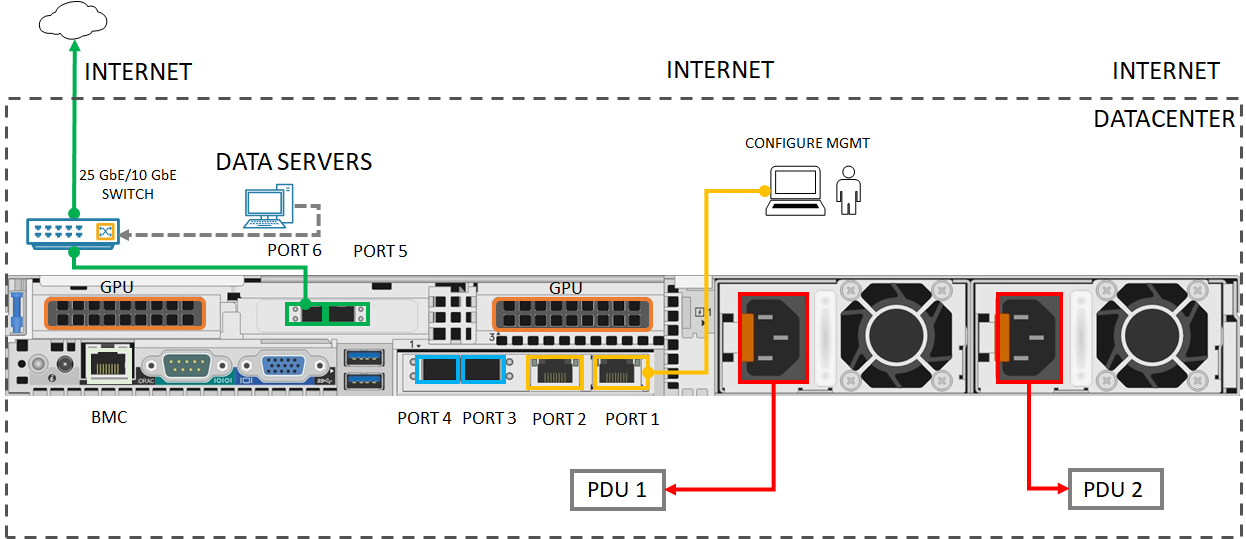
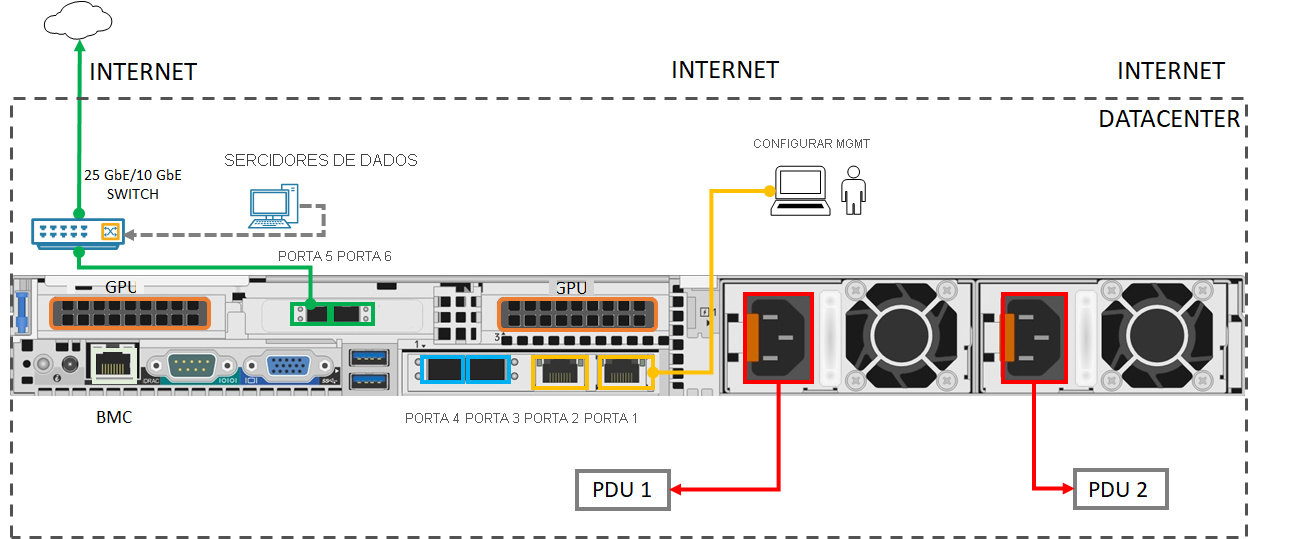
commit translated contents

diff --git a/articles/communication-services/concepts/notifications.md b/articles/communication-services/concepts/notifications.md
@@ -9,19 +9,19 @@ ms.author: mikben
 ms.date: 03/10/2021
 ms.topic: overview
 ms.service: azure-communication-services
-ms.openlocfilehash: 21c247c2fb9e1532c4580eea894c97e2bff84f92
-ms.sourcegitcommit: 867cb1b7a1f3a1f0b427282c648d411d0ca4f81f
+ms.openlocfilehash: 9bf3067737ee1f4e15deaf31677513e5ac99cbd1
+ms.sourcegitcommit: bed20f85722deec33050e0d8881e465f94c79ac2
 ms.translationtype: HT
 ms.contentlocale: pt-BR
-ms.lasthandoff: 03/19/2021
-ms.locfileid: "104657035"
+ms.lasthandoff: 03/25/2021
+ms.locfileid: "105108121"
 ---
 # <a name="communication-services-notifications"></a>Notificações de Serviços de Comunicação
 
 [!INCLUDE [Public Preview Notice](../includes/public-preview-include.md)]
 
 
-As bibliotecas de cliente de chat e chamada dos Serviços de Comunicação do Azure criam um canal de mensagens em tempo real que permite enviar mensagens de sinalização por push a clientes conectados de maneira eficiente e confiável. Com isso, você pode criar funcionalidades de comunicação avançadas e em tempo real em seus aplicativos sem implementar uma lógica de sondagem HTTP complicada. No entanto, em aplicativos móveis, esse canal de sinalização permanece conectado somente quando o aplicativo está ativo em primeiro plano. Se desejar que os usuários recebam chamadas de entrada ou mensagens de chat com o aplicativo em segundo plano, você deverá usar notificações por push.
+Os SDKs de chat e chamada dos Serviços de Comunicação do Azure criam um canal de mensagens em tempo real que permite a sinalização de mensagens para serem enviadas por push de maneira eficiente e confiável a clientes conectados. Com isso, você pode criar funcionalidades de comunicação avançadas e em tempo real em seus aplicativos sem implementar uma lógica de sondagem HTTP complicada. No entanto, em aplicativos móveis, esse canal de sinalização permanece conectado somente quando o aplicativo está ativo em primeiro plano. Se desejar que os usuários recebam chamadas de entrada ou mensagens de chat com o aplicativo em segundo plano, você deverá usar notificações por push.
 
 As notificações por push permitem que você envie informações do aplicativo para os dispositivos móveis dos usuários. Você pode usar notificações por push para mostrar uma caixa de diálogo, tocar um som ou exibir a interface do usuário de chamada de entrada. Os Serviços de Comunicação do Azure fornecem integrações com a [Grade de Eventos do Azure](../../event-grid/overview.md) e os [Hubs de Notificação do Azure](../../notification-hubs/notification-hubs-push-notification-overview.md), que permitem adicionar notificações por push aos aplicativos.
 

diff --git a/articles/communication-services/quickstarts/voice-video-calling/includes/teams-interop-android.md b/articles/communication-services/quickstarts/voice-video-calling/includes/teams-interop-android.md
@@ -1,19 +1,19 @@
 ---
 title: Início Rápido – Participar de uma reunião no Teams usando um aplicativo Android
-description: Neste tutorial, você aprende a participar de uma reunião no Teams usando a biblioteca de clientes de Chamada dos Serviços de Comunicação do Azure para Android
+description: Neste tutorial, você aprende a participar de uma reunião no Teams usando o SDK de Chamada dos Serviços de Comunicação do Azure para Android
 author: chpalm
 ms.author: mikben
 ms.date: 03/10/2021
 ms.topic: quickstart
 ms.service: azure-communication-services
-ms.openlocfilehash: 82e64af5cec8641abacf5afa323fc38382a124c4
-ms.sourcegitcommit: 772eb9c6684dd4864e0ba507945a83e48b8c16f0
+ms.openlocfilehash: e5361b92c2080c724b872be2ad27bc5bd4554e8d
+ms.sourcegitcommit: bed20f85722deec33050e0d8881e465f94c79ac2
 ms.translationtype: HT
 ms.contentlocale: pt-BR
-ms.lasthandoff: 03/20/2021
-ms.locfileid: "103487967"
+ms.lasthandoff: 03/25/2021
+ms.locfileid: "105108157"
 ---
-Neste início rápido, você aprenderá a participar de uma reunião no Teams usando a biblioteca de clientes de Chamada dos Serviços de Comunicação do Azure para Android.
+Neste guia de início rápido, você aprenderá a participar de uma reunião no Teams usando o SDK de Chamada dos Serviços de Comunicação do Azure para Android.
 
 ## <a name="prerequisites"></a>Pré-requisitos
 
@@ -254,7 +254,7 @@ public class MainActivity extends AppCompatActivity {
 ## <a name="get-the-teams-meeting-link"></a>Obter o link de reunião do Teams
 
 O link de reunião do Teams pode ser recuperado usando APIs do Graph. Isso é detalhado na [documentação do Graph](/graph/api/onlinemeeting-createorget?tabs=http&view=graph-rest-beta).
-A biblioteca de clientes de Chamada dos Serviços de Comunicação aceita um link de reunião completo do Teams. Esse link é retornado como parte do recurso `onlineMeeting`, acessível sob a [propriedade `joinWebUrl`](/graph/api/resources/onlinemeeting?view=graph-rest-beta). Você também pode obter as informações da reunião necessárias na URL **Participar da Reunião** indicada no convite da própria reunião do Teams.
+O SDK de Chamada de Serviços de Comunicação aceita um link de reunião completo do Teams. Esse link é retornado como parte do recurso `onlineMeeting`, acessível sob a [propriedade `joinWebUrl`](/graph/api/resources/onlinemeeting?view=graph-rest-beta). Você também pode obter as informações da reunião necessárias na URL **Participar da Reunião** indicada no convite da própria reunião do Teams.
 
 ## <a name="launch-the-app-and-join-teams-meeting"></a>Iniciar o aplicativo e participar da reunião do Teams
 

diff --git a/articles/communication-services/quickstarts/voice-video-calling/includes/teams-interop-ios.md b/articles/communication-services/quickstarts/voice-video-calling/includes/teams-interop-ios.md
@@ -1,19 +1,19 @@
 ---
 title: Início Rápido – Participar de uma reunião no Teams usando um aplicativo iOS
-description: Neste tutorial, você aprende a participar de uma reunião no Teams usando a biblioteca de clientes de Chamada dos Serviços de Comunicação do Azure para iOS
+description: Neste tutorial, você aprende a participar de uma reunião no Teams usando o SDK de Chamada dos Serviços de Comunicação do Azure para iOS
 author: chpalm
 ms.author: mikben
 ms.date: 03/10/2021
 ms.topic: quickstart
 ms.service: azure-communication-services
-ms.openlocfilehash: 68f1abb5335386634874d9696738a8e552ebbe9c
-ms.sourcegitcommit: 772eb9c6684dd4864e0ba507945a83e48b8c16f0
+ms.openlocfilehash: 8ff85dc5571f549027e208409db3f4e80c68b205
+ms.sourcegitcommit: bed20f85722deec33050e0d8881e465f94c79ac2
 ms.translationtype: HT
 ms.contentlocale: pt-BR
-ms.lasthandoff: 03/20/2021
-ms.locfileid: "103487965"
+ms.lasthandoff: 03/25/2021
+ms.locfileid: "105108156"
 ---
-Neste início rápido, você aprenderá a participar de uma reunião no Teams usando a biblioteca de clientes de Chamada dos Serviços de Comunicação do Azure para iOS.
+Neste guia de início rápido, você aprenderá a participar de uma reunião no Teams usando o SDK de Chamada dos Serviços de Comunicação do Azure para iOS.
 
 ## <a name="prerequisites"></a>Pré-requisitos
 
@@ -178,7 +178,7 @@ struct ContentView_Previews: PreviewProvider {
 ## <a name="get-the-teams-meeting-link"></a>Obter o link de reunião do Teams
 
 O link de reunião do Teams pode ser recuperado usando APIs do Graph. Isso é detalhado na [documentação do Graph](/graph/api/onlinemeeting-createorget?tabs=http&view=graph-rest-beta).
-A biblioteca de clientes de Chamada dos Serviços de Comunicação aceita um link de reunião completo do Teams. Esse link é retornado como parte do recurso `onlineMeeting`, acessível sob a [propriedade `joinWebUrl`](/graph/api/resources/onlinemeeting?view=graph-rest-beta). Você também pode obter as informações da reunião necessárias na URL **Participar da Reunião** indicada no convite da própria reunião do Teams.
+O SDK de Chamada de Serviços de Comunicação aceita um link de reunião completo do Teams. Esse link é retornado como parte do recurso `onlineMeeting`, acessível sob a [propriedade `joinWebUrl`](/graph/api/resources/onlinemeeting?view=graph-rest-beta). Você também pode obter as informações da reunião necessárias na URL **Participar da Reunião** indicada no convite da própria reunião do Teams.
 
 ## <a name="launch-the-app-and-join-teams-meeting"></a>Iniciar o aplicativo e participar da reunião do Teams
 

diff --git a/articles/communication-services/quickstarts/voice-video-calling/get-started-teams-interop.md b/articles/communication-services/quickstarts/voice-video-calling/get-started-teams-interop.md
@@ -8,19 +8,19 @@ ms.date: 03/10/2021
 ms.topic: quickstart
 ms.service: azure-communication-services
 zone_pivot_groups: acs-plat-web-ios-android
-ms.openlocfilehash: a9ef74c04c1f709348ae1d6dd97558ee6bedccf3
-ms.sourcegitcommit: 867cb1b7a1f3a1f0b427282c648d411d0ca4f81f
+ms.openlocfilehash: 39c35bc90986126d099e68023e15b97c58d0ac26
+ms.sourcegitcommit: bed20f85722deec33050e0d8881e465f94c79ac2
 ms.translationtype: HT
 ms.contentlocale: pt-BR
-ms.lasthandoff: 03/19/2021
-ms.locfileid: "104654961"
+ms.lasthandoff: 03/25/2021
+ms.locfileid: "105108155"
 ---
 # <a name="quickstart-join-your-calling-app-to-a-teams-meeting"></a>Início Rápido: Ingressar seu aplicativo de chamada em uma reunião do Teams
 
 > [!IMPORTANT]
 > Para habilitar/desabilitar a [interoperabilidade de locatários do Teams](../../concepts/teams-interop.md), preencha [este formulário](https://forms.office.com/Pages/ResponsePage.aspx?id=v4j5cvGGr0GRqy180BHbR21ouQM6BHtHiripswZoZsdURDQ5SUNQTElKR0VZU0VUU1hMOTBBMVhESS4u).
 
-Comece a usar os Serviços de Comunicação do Azure conectando sua solução de chamada ao Microsoft Teams usando a biblioteca de clientes JavaScript.
+Comece a usar os Serviços de Comunicação do Azure conectando sua solução de chamada ao Microsoft Teams usando o SDK de JavaScript.
 
 ::: zone pivot="platform-web"
 [!INCLUDE [Calling with JavaScript](./includes/teams-interop-javascript.md)]
@@ -43,5 +43,5 @@ Se quiser limpar e remover uma assinatura dos Serviços de Comunicação, exclua
 Para obter mais informações, consulte os seguintes artigos:
 
 - Confira nosso [exemplo de destaque da chamada](../../samples/calling-hero-sample.md)
-- Saiba mais sobre as [funcionalidades da biblioteca de clientes de chamada](./calling-client-samples.md)
+- Conheça os recursos do [SDK de Chamada](./calling-client-samples.md)
 - Saiba mais sobre [como a chamada funciona](../../concepts/voice-video-calling/about-call-types.md)

diff --git a/articles/communication-services/samples/includes/web-calling-hero.md b/articles/communication-services/samples/includes/web-calling-hero.md
@@ -10,16 +10,16 @@ ms.date: 03/10/2021
 ms.topic: include
 ms.custom: include file
 ms.author: mikben
-ms.openlocfilehash: f3da6fd75ac485a3e22a428934928795f1feae28
-ms.sourcegitcommit: 772eb9c6684dd4864e0ba507945a83e48b8c16f0
+ms.openlocfilehash: 07aa1cb361f5f1853dbf93e5f4e064b1ed14f1de
+ms.sourcegitcommit: bed20f85722deec33050e0d8881e465f94c79ac2
 ms.translationtype: HT
 ms.contentlocale: pt-BR
-ms.lasthandoff: 03/20/2021
-ms.locfileid: "103487899"
+ms.lasthandoff: 03/25/2021
+ms.locfileid: "105152764"
 ---
 [!INCLUDE [Public Preview Notice](../../includes/public-preview-include.md)]
 
-O **Exemplo de Destaque de Chamadas em Grupo** dos Serviços de Comunicação do Azure demonstra como a biblioteca de clientes Web de Chamadas dos Serviços de Comunicação pode ser usada para criar uma experiência de chamada em grupo.
+O **Exemplo de Destaque de Chamadas em Grupo** dos Serviços de Comunicação do Azure demonstra como o SDK da Web de Chamadas dos Serviços de Comunicação pode ser usado para criar uma experiência de chamada em grupo.
 
 Neste guia de início rápido de Exemplo, aprenderemos como o exemplo funciona antes de o executarmos no computador local. Em seguida, implantaremos o exemplo no Azure usando seus próprios recursos de Serviços de Comunicação do Azure.
 
@@ -96,7 +96,7 @@ Se quiser limpar e remover uma assinatura dos Serviços de Comunicação, exclua
 
 Para obter mais informações, consulte os seguintes artigos:
 
-- Familiarize-se com [usar a biblioteca de clientes de chamada](../../quickstarts/voice-video-calling/calling-client-samples.md)
+- Familiarize-se com o [uso do SDK de Chamada](../../quickstarts/voice-video-calling/calling-client-samples.md)
 - Saiba mais sobre [como a chamada funciona](../../concepts/voice-video-calling/about-call-types.md)
 
 ### <a name="additional-reading"></a>Leituras adicionais

diff --git a/articles/communication-services/quickstarts/voice-video-calling/includes/teams-interop-javascript.md b/articles/communication-services/quickstarts/voice-video-calling/includes/teams-interop-javascript.md
@@ -1,19 +1,19 @@
 ---
 title: Início Rápido – Participar de uma reunião no Teams usando um aplicativo Web
-description: Neste tutorial, você aprende a participar de uma reunião no Teams usando a biblioteca de clientes de Chamada dos Serviços de Comunicação do Azure para JavaScript
+description: Neste tutorial, você aprende a participar de uma reunião no Teams usando o SDK de Chamada dos Serviços de Comunicação do Azure para JavaScript
 author: chpalm
 ms.author: mikben
 ms.date: 03/10/2021
 ms.topic: quickstart
 ms.service: azure-communication-services
-ms.openlocfilehash: 43f6241f0da0ecc9c68cf60e9f1a0482509374f3
-ms.sourcegitcommit: 772eb9c6684dd4864e0ba507945a83e48b8c16f0
+ms.openlocfilehash: 4b6cf48c577bb6f22f497007c4b1c1b57ab6f187
+ms.sourcegitcommit: bed20f85722deec33050e0d8881e465f94c79ac2
 ms.translationtype: HT
 ms.contentlocale: pt-BR
-ms.lasthandoff: 03/20/2021
-ms.locfileid: "103487966"
+ms.lasthandoff: 03/25/2021
+ms.locfileid: "105108158"
 ---
-Neste início rápido, você aprenderá a participar de uma reunião no Teams usando a biblioteca de clientes de Chamada dos Serviços de Comunicação do Azure para JavaScript.
+Neste guia de início rápido, você aprenderá a participar de uma reunião no Teams usando o SDK de Chamada dos Serviços de Comunicação do Azure para JavaScript.
 
 ## <a name="prerequisites"></a>Pré-requisitos
 

diff --git a/articles/synapse-analytics/spark/connect-monitor-azure-synapse-spark-application-level-metrics.md b/articles/synapse-analytics/spark/connect-monitor-azure-synapse-spark-application-level-metrics.md
@@ -2,19 +2,19 @@
 title: Tutorial – Conectar e monitorar as métricas no nível do aplicativo Spark do Azure Synapse
 description: Tutorial – Saiba como integrar o servidor local existente do Prometheus ao workspace do Azure Synapse para métricas de aplicativo do Azure Spark quase em tempo real usando o conector do Synapse Prometheus.
 services: synapse-analytics
-author: julieMSFT
+author: jejiang
 ms.author: jejiang
 ms.reviewer: jrasnick
 ms.service: synapse-analytics
 ms.topic: tutorial
 ms.subservice: spark
 ms.date: 01/22/2021
-ms.openlocfilehash: 956d2f8f14b224609542783a8b18d3cdee43fff9
-ms.sourcegitcommit: bb330af42e70e8419996d3cba4acff49d398b399
+ms.openlocfilehash: d22975199eedae353f2dc12588671ae4b54c85ab
+ms.sourcegitcommit: bed20f85722deec33050e0d8881e465f94c79ac2
 ms.translationtype: HT
 ms.contentlocale: pt-BR
-ms.lasthandoff: 03/24/2021
-ms.locfileid: "105035618"
+ms.lasthandoff: 03/25/2021
+ms.locfileid: "105109311"
 ---
 # <a name="tutorial-connect-and-monitor-azure-synapse-spark-application-level-metrics"></a>Tutorial: conectar e monitorar as métricas no nível do aplicativo Spark do Azure Synapse
 
